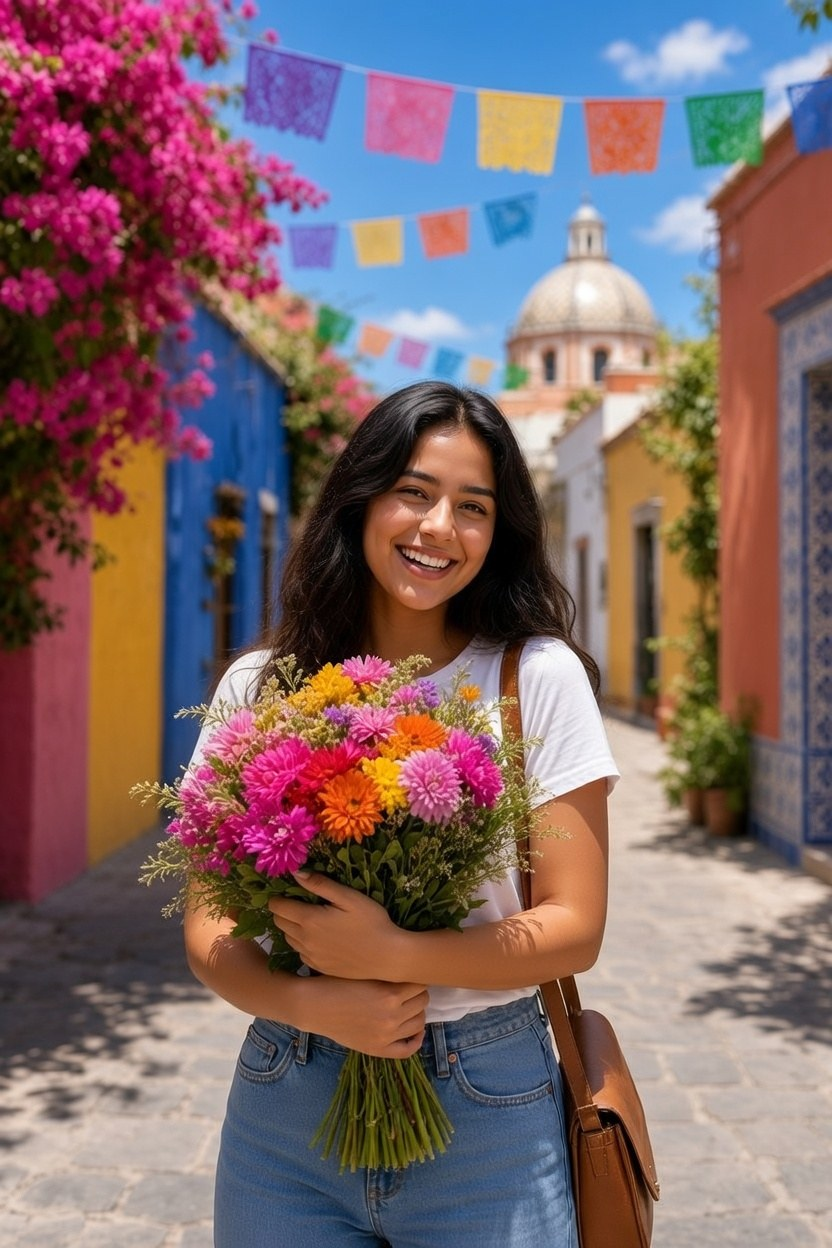
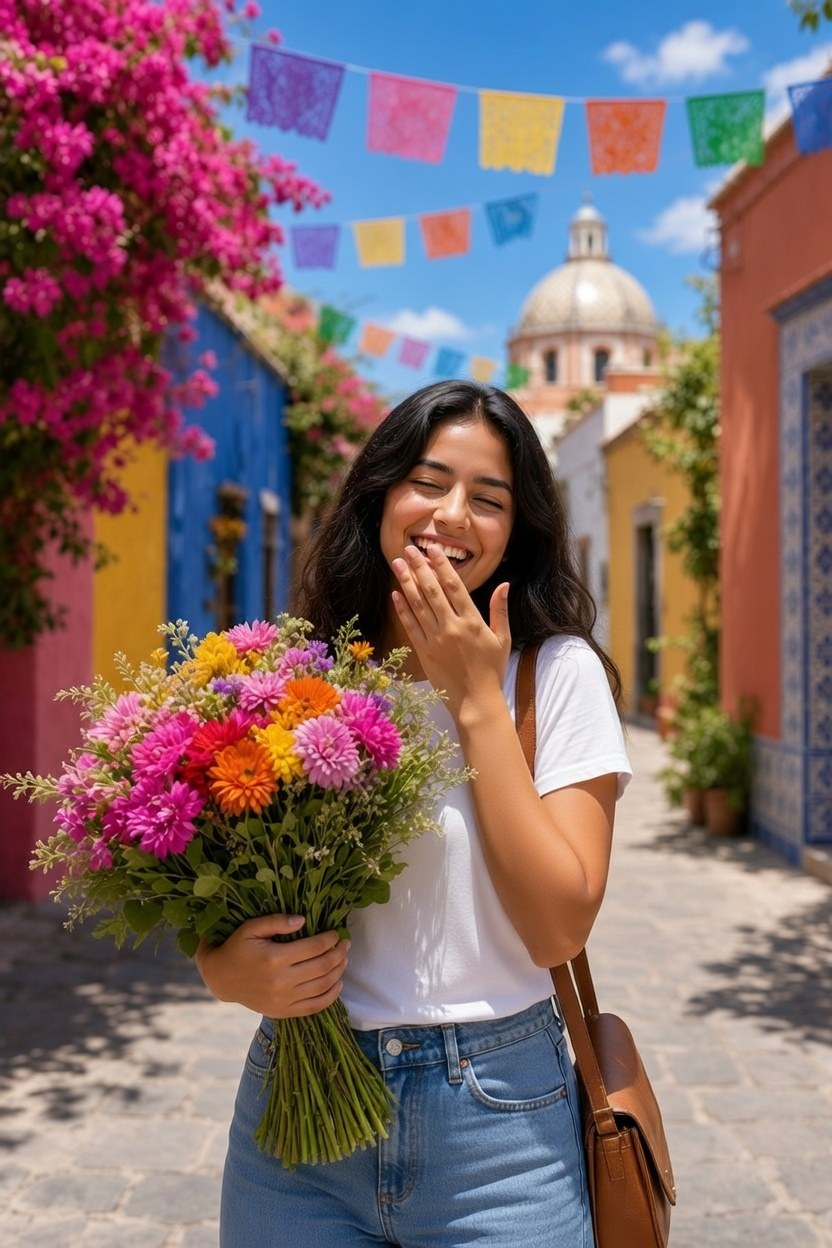
onboarding: stronger Mexico guide poses (Josh: not much variation)
The second round kept her nearly still. New listening, talking and laughing
poses ask for bigger movements and name where her bag stays; checked for
bag side, two hands and the same street.

Claude-Session: https://claude.ai/code/session_011U3mL74K67k6CcAYTsPaaw

diff --git a/docs/onboarding-design.md b/docs/onboarding-design.md
@@ -83,7 +83,7 @@ Four pictures of her per country, the original plus three edits that keep her, t
 | Her speaker question and follow-up | Talking | `poses/it-talk.jpg` | `poses/es-mx-talk.jpg` |
 | Both send-offs (beginner and speaker) | Laughing, warm | `poses/it-laugh.jpg` | `poses/es-mx-laugh.jpg` |
 
-All in `design/country-cards/`. Expressive poses are fine for her because her lines are fixed; characters in open conversation would need neutral ones (docs/ideas.md). Mexico's listening pose took a second round: the first edits moved her bag to the other shoulder.
+All in `design/country-cards/`. Expressive poses are fine for her because her lines are fixed; characters in open conversation would need neutral ones (docs/ideas.md). Mexico's poses took three rounds: the first moved her bag to the other shoulder, the second barely changed her (Josh: "not much variation"); the third asks for bigger movements (hair tucked behind her ear, an open-palm gesture, a hand over her laugh) and names where the bag stays.
 
 ## Current flow (canvas row 2, Italy shown; redrawn 2026-10-16 to this text)
 
